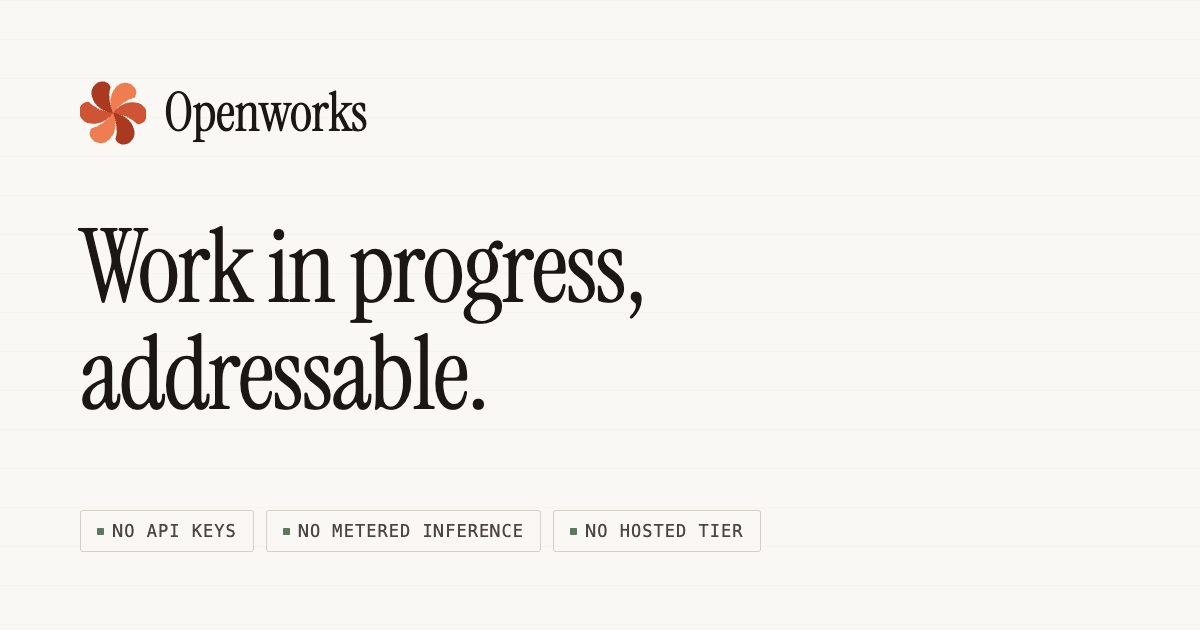
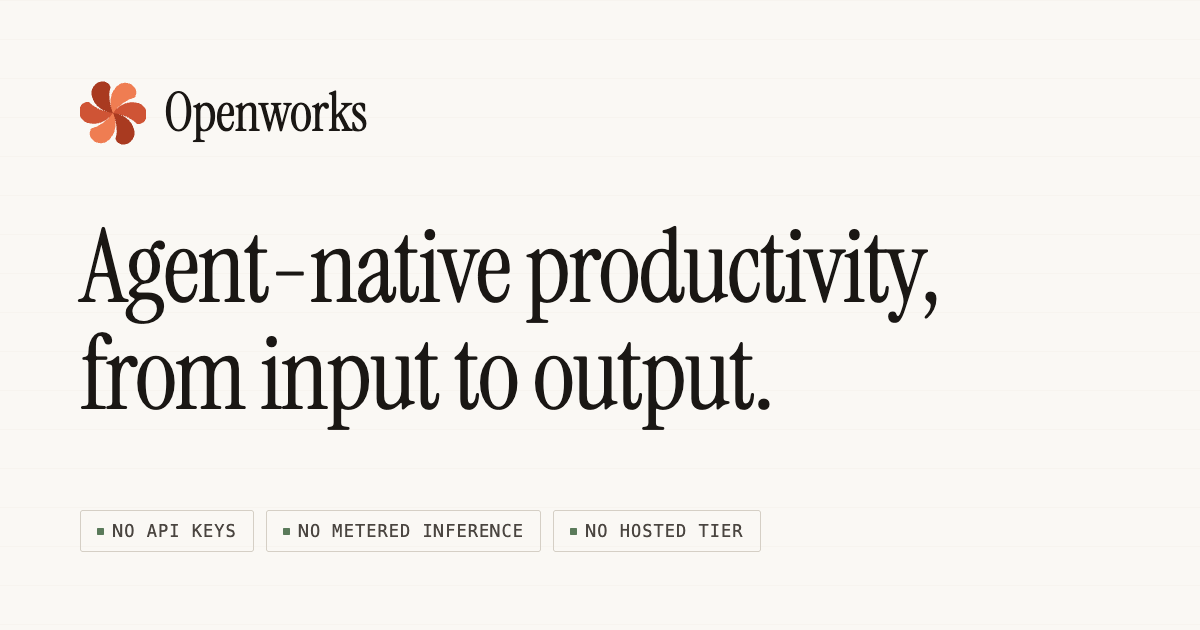
the headline, why, site and docs give the content loop and the open process equal weight
From #5's held framing: input to output now stands next to the open-process argument instead of replacing it, in the README, package.json, homepage, metadata and concepts page. og.png is re-rendered from the new card.

Changed region(s): [[0.0617, 0.3619, 0.8017, 0.6937]]

diff --git a/site/src/data/product.ts b/site/src/data/product.ts
@@ -3,7 +3,7 @@
 // structured data is not. Sharing the opening sentence keeps the divergence to
 // the part that is meant to differ.
 export const PRODUCT_LEDE =
-  "Self-hosted open-source workspace where humans and AI agents work the same research material while it is still moving.";
+  "Self-hosted open-source workspace where personal content moves from input to output and humans and AI agents work it while it is still moving.";
 
 // The one-click deploy target, defined once here and pasted into README.md and
 // docs/deploy.md, which cannot import it. A test asserts all three agree rather
@@ -20,7 +20,7 @@ const DEPLOY_PARAMS: Record<string, string> = {
   "repository-name": "openworks",
   "demo-title": "Openworks",
   "demo-description":
-    "A self-hosted workspace where humans and AI agents work the same material while it is still moving.",
+    "A self-hosted workspace where personal content moves from input to output and humans and AI agents work it while it is still moving.",
   "demo-url": "https://openworksai.app",
   products: JSON.stringify([
     { type: "integration", integrationSlug: "convex", productSlug: "convex", protocol: "storage" },

diff --git a/site/og-card.html b/site/og-card.html
@@ -122,7 +122,7 @@
       <span>Openworks</span>
     </div>
 
-    <h1>Work in progress,<br />addressable.</h1>
+    <h1>Agent-native productivity,<br />from input to output.</h1>
 
     <ul>
       <li>No API keys</li>

diff --git a/README.md b/README.md
@@ -2,9 +2,7 @@
 
 # Openworks
 
-**Agent-native productivity.** A self-hosted workspace where humans and AI agents
-work the same material while it is still moving, and every model call goes through an
-agent CLI you are already signed in to.
+**Agent-native productivity, from input to output.** A self-hosted workspace where links, screenshots, papers and notes move from input through processing to output, and where humans and AI agents work that material while it is still moving. Every model call goes through an agent CLI you are already signed in to.
 
 **No API keys. No metered inference. No hosted tier. No subscription to us.**
 
@@ -19,7 +17,7 @@ Interfaces will still move.
 **Docs: [openworksai.app/docs](https://openworksai.app/docs)**, one page per
 surface, written from `docs/` in this repo.
 
-[![Deploy with Vercel](https://vercel.com/button)](https://vercel.com/new/clone?repository-url=https%3A%2F%2Fgithub.com%2Fseonglae%2Fopenworks&project-name=openworks&repository-name=openworks&demo-title=Openworks&demo-description=A%20self-hosted%20workspace%20where%20humans%20and%20AI%20agents%20work%20the%20same%20material%20while%20it%20is%20still%20moving.&demo-url=https%3A%2F%2Fopenworksai.app&products=%5B%7B%22type%22%3A%22integration%22%2C%22integrationSlug%22%3A%22convex%22%2C%22productSlug%22%3A%22convex%22%2C%22protocol%22%3A%22storage%22%7D%5D&env=VITE_CLERK_PUBLISHABLE_KEY&envDescription=Clerk%20publishable%20key.%20The%20deployment%20is%20owner-only%2C%20so%20it%20needs%20an%20identity%20provider%20to%20know%20who%20you%20are.&envLink=https%3A%2F%2Fopenworksai.app%2Fdocs%2Fdeploy%2F)
+[![Deploy with Vercel](https://vercel.com/button)](https://vercel.com/new/clone?repository-url=https%3A%2F%2Fgithub.com%2Fseonglae%2Fopenworks&project-name=openworks&repository-name=openworks&demo-title=Openworks&demo-description=A%20self-hosted%20workspace%20where%20personal%20content%20moves%20from%20input%20to%20output%20and%20humans%20and%20AI%20agents%20work%20it%20while%20it%20is%20still%20moving.&demo-url=https%3A%2F%2Fopenworksai.app&products=%5B%7B%22type%22%3A%22integration%22%2C%22integrationSlug%22%3A%22convex%22%2C%22productSlug%22%3A%22convex%22%2C%22protocol%22%3A%22storage%22%7D%5D&env=VITE_CLERK_PUBLISHABLE_KEY&envDescription=Clerk%20publishable%20key.%20The%20deployment%20is%20owner-only%2C%20so%20it%20needs%20an%20identity%20provider%20to%20know%20who%20you%20are.&envLink=https%3A%2F%2Fopenworksai.app%2Fdocs%2Fdeploy%2F)
 
 Clones this repo into your account, provisions a Convex project through the
 Vercel Marketplace, and builds the backend and the UI in one command. Three
@@ -31,6 +29,22 @@ you.
 ---
 
 ## Why
+
+Two things have to hold at once: what you read and write has to move from input to output, and the work in between has to stay open to people and agents while it moves.
+
+### From input to output
+
+Personal material arrives in different forms and leaves through different tools. A screenshot, an article, a paper and a note should not need four disconnected workflows to become a useful summary, draft or reading feed.
+
+Openworks runs them through one **Input → Processing → Output** loop around ordered content lists.
+
+- **Input keeps the source.** Captured text stays next to its link, paper or screenshot reference, and a reference without text is never presented as already read.
+- **Processing keeps working content apart from evidence.** Agent CLIs distill and score material while the source and the steps applied to it are kept.
+- **Output has its own boundary.** Preparing a Notion export plan or a portable feed record does not publish it.
+
+The adapters are a typed foundation, not a claim that every worker has moved onto them: intake uses the input boundary today, and live Notion publishing, a hosted feed and video rendering are separate work. See [Content input/output](docs/content-management.md).
+
+### Open while it moves
 
 The unit of public discourse today is the finished artifact: the published paper, the
 merged PR, the released product. Review and critique are bolted onto the end of the
@@ -63,10 +77,7 @@ research-specific. Whether that generalises is not something this repo has shown
 
 ## The same argument, from the other end
 
-Keeping a process open is not a display problem. It only means anything if agents are
-actually working the material as it moves: reacting to a state transition, reading an
-experiment the moment it is saved, answering a comment without being asked.
-Subscriptions here fan out on every one of those events.
+Moving content from input to output and keeping a process open are not display problems. Both only mean anything if agents actually work the material as it moves: distilling what arrives, reacting to a state transition, reading an experiment the moment it is saved, answering a comment without being asked. Workers and subscriptions here cover every one of those events.
 
 Metered inference is the wrong shape for that. When each run bills per token, every
 autonomous reaction becomes a purchase, and a product that spends the operator's money

diff --git a/docs/deploy.md b/docs/deploy.md
@@ -10,7 +10,7 @@ point, and the last section says why.
 
 ## One click
 
-[![Deploy with Vercel](https://vercel.com/button)](https://vercel.com/new/clone?repository-url=https%3A%2F%2Fgithub.com%2Fseonglae%2Fopenworks&project-name=openworks&repository-name=openworks&demo-title=Openworks&demo-description=A%20self-hosted%20workspace%20where%20humans%20and%20AI%20agents%20work%20the%20same%20material%20while%20it%20is%20still%20moving.&demo-url=https%3A%2F%2Fopenworksai.app&products=%5B%7B%22type%22%3A%22integration%22%2C%22integrationSlug%22%3A%22convex%22%2C%22productSlug%22%3A%22convex%22%2C%22protocol%22%3A%22storage%22%7D%5D&env=VITE_CLERK_PUBLISHABLE_KEY&envDescription=Clerk%20publishable%20key.%20The%20deployment%20is%20owner-only%2C%20so%20it%20needs%20an%20identity%20provider%20to%20know%20who%20you%20are.&envLink=https%3A%2F%2Fopenworksai.app%2Fdocs%2Fdeploy%2F)
+[![Deploy with Vercel](https://vercel.com/button)](https://vercel.com/new/clone?repository-url=https%3A%2F%2Fgithub.com%2Fseonglae%2Fopenworks&project-name=openworks&repository-name=openworks&demo-title=Openworks&demo-description=A%20self-hosted%20workspace%20where%20personal%20content%20moves%20from%20input%20to%20output%20and%20humans%20and%20AI%20agents%20work%20it%20while%20it%20is%20still%20moving.&demo-url=https%3A%2F%2Fopenworksai.app&products=%5B%7B%22type%22%3A%22integration%22%2C%22integrationSlug%22%3A%22convex%22%2C%22productSlug%22%3A%22convex%22%2C%22protocol%22%3A%22storage%22%7D%5D&env=VITE_CLERK_PUBLISHABLE_KEY&envDescription=Clerk%20publishable%20key.%20The%20deployment%20is%20owner-only%2C%20so%20it%20needs%20an%20identity%20provider%20to%20know%20who%20you%20are.&envLink=https%3A%2F%2Fopenworksai.app%2Fdocs%2Fdeploy%2F)
 
 In order, that flow:
 

diff --git a/docs/concepts.md b/docs/concepts.md
@@ -1,8 +1,12 @@
 # Concepts
 
-Everything in Openworks is a project, an entity hanging off it, a reference
-between two of them, or a comment on any of them. Features are views over that
-substrate rather than separate systems.
+Openworks has two halves that work together. A content loop takes links, screenshots, papers and notes from input through processing to output. A project graph keeps work open while it moves: everything there is a project, an entity hanging off it, a reference between two of them, or a comment on any of them. Features are views over those two rather than separate systems.
+
+## Content loop
+
+The shared domain contracts use an ordered `ContentList` of `Content` records. Input adapters capture text or source references, Processing adapters transform working text while keeping the source, and Output adapters prepare destination-specific data. The stages are separate interfaces; source and output variants are discriminated unions rather than one large parent class.
+
+These contracts connect to intake prompt construction and standalone export preparation today. Project, digest and agent workflows have not all moved onto them. See [Content input/output](/docs/content-management/) for the exact boundaries.
 
 ## Projects
 

diff --git a/site/README.md b/site/README.md
@@ -3,6 +3,8 @@
 `openworksai.app`: the homepage and the docs. Astro, static output, no adapter,
 because nothing on it is dynamic.
 
+The site gives both halves of Openworks equal weight: the content loop from input to output, and the open process people and agents work while it moves. Keep the homepage, metadata and docs aligned on both. Links between published guides use `/docs/<slug>/`; repository-relative `.md` links do not resolve on the static site.
+
 ```bash
 pnpm --filter openworks-site dev        # localhost:6002
 pnpm --filter openworks-site typecheck  # astro check
